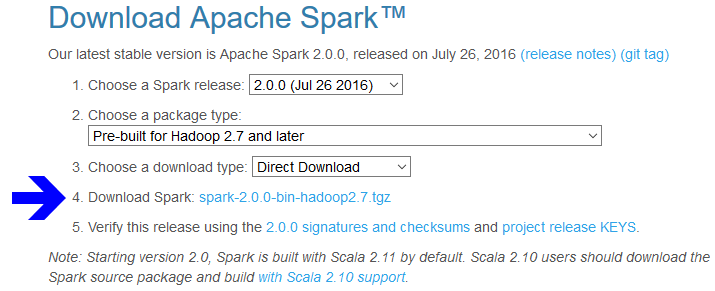
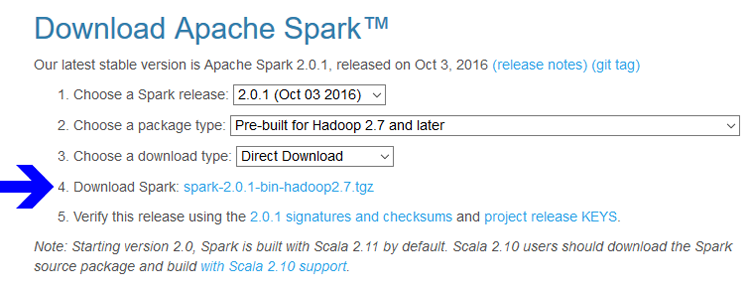
SPARKOUR-21: Updating to 2.0.1.

Changed region(s): [[0.0, 0.0, 1.0, 0.9965], [0.9846, 0.4048, 1.0, 0.4671]]

diff --git a/data/examples/sparkour/aggregating-accumulators/src/main/python/aggregating_accumulators.py b/data/examples/sparkour/aggregating-accumulators/src/main/python/aggregating_accumulators.py
@@ -24,7 +24,7 @@ from pyspark.sql import SparkSession
     data.
 
     This example still uses the deprecated Accumulator API from
-    Spark 1.x. The AccumlatorV2 from Spark 2.0.0 has not yet
+    Spark 1.x. The AccumlatorV2 from Spark 2.0 has not yet
     been implemented in PySpark. You can track this work in
     https://issues.apache.org/jira/browse/SPARK-16861
 
